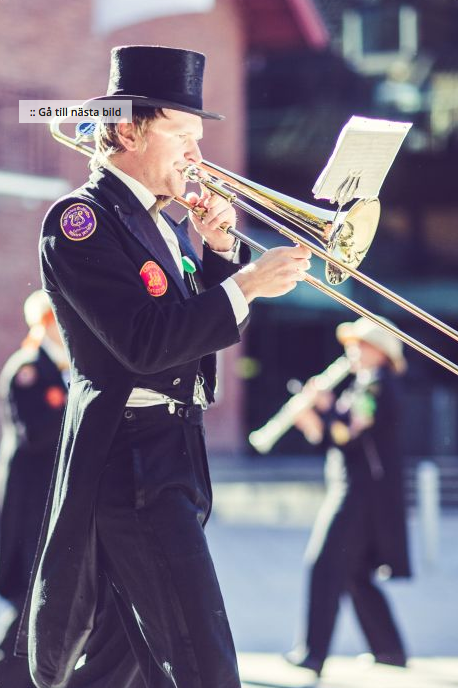
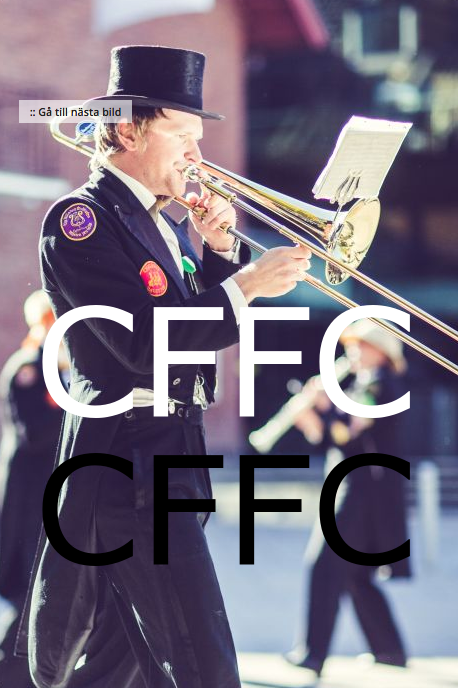
Add watermark and booking page.

diff --git a/bokning.html b/bokning.html
@@ -39,45 +39,31 @@
   </header>
 
   <main>
-    <article class="description">
-      <section>
-        <img src="images/11.png" ></a>
-        <p>AllianceOrchestret eller "the Alliance Orchestra of Gothenburg", är
-        världens antagligen mest förvirrade orkester. Alliancen bildades redan 1948
-        och består än idag av glada teknologer från Chalmers tekniska högskola.
-        Tillsammans spelar, sjåvar och vimmlar de runt på krogar, gator och torg. Där
-        du minsta anar det dycker vi upp och sprider glädje och hård marchsmusik.</p>
-      </section>
-
-      <section>
-        <img src="images/19.png" ></a>
-        <p>Ofta uppträder vi tillsammans och sjåvar vi tillsammans med
-        Chalmersbaletten och skapar på så sätt en total upplevelse. Vi kan spela
-        närsomhelst och varsomhelst. Alliancen har spelat på invigningar, bröllop,
-        sittningar, i corteger och på festivaler. Tveka inte att höra av dig till och
-        om du vill höja stämmningen på din fest eller event.</p>
-      </section>
-
-      <img src="images/4.png" ></a>
+    <h2>Boka oss</h2>
+    <article>
+       <p>
+         Alliancen är ett utmärkt sätt att höja stämningen på fester och
+         kalas. Vi är flexibla och kan spela nästan när och var som helst.
+         Mer info om hur en typisk Alliancespelning går till finner du här.
+         Mannen på bilden är vår Disponent (ordförande).
+       </p>
     </article>
 
-    <article class="action">
-      <h3 id="boka-oss">Boka oss</h3>
+    <img src="images/4.png" ></a>
 
-      <p>För att boka oss kontaktar du vår ordförande eller Disponent, Holger
-        &quot;Ässet&quot; Lindström på
-        <a href="mailto:disponent@alliancen.se" class="uri">disponent@alliancen.se</a>
-        eller <a href="tel:0700123456" class="uri">0700123456</a>.
+    <article>
+      <p>
+        All bokning sköts av AllianceOrchestrets Disponent. För närvarande
+        heter han Holger "Ässet" Lindström. Ring honom på
+        <a herf="tel:076-171 91 27" class="uri">076-171 91 27</a>
+        eller skicka ett mejl till
+        <a href="mailto:disponent@alliancen.se" class="uri">
+          disponent@alliancen.se</a>
+        för att boka oss!  Disponenten känns lätt igen emedan han alltid bär
+        hög hatt.
       </p>
     </article>
 
-    <article class="action">
-      <h3 id="sök-orchestret">Sök orchestret</h3>
-
-      <p>Går du på Chalmers och vill spela med oss? Klart du vill! Vi har vår
-      aspning i LP1. Kom på ett av våra rep på måndagar kl19:00 i kårresturangen
-      i LV1-4. Ta chansen, sök Alliancen!</p>
-    </article>
 
     <img src="images/7.png" ></a>
   </main>

diff --git a/css/main.css b/css/main.css
@@ -82,9 +82,20 @@ h1 {
 }
 
 h2 {
-  font-size: 2rem;
+  font-size: 3rem;
   margin-top: 2.2rem;
+  margin-bottom: 1rem;
   /* margin-bottom: -.5rem; */
+  /* margin: 2.2rem auto 1rem auto; */
+  /* margin: 0 auto; */
+  text-align: center;
+  width: 100%;
+}
+
+h3 {
+  font-size: 2.5rem;
+  margin-top: 2.2rem;
+  margin-bottom: 0.5rem;
 }
 
 h2 + p {
@@ -117,19 +128,19 @@ footer {
   background-color: var(--color);
   color: var(--accent);
   /* font-size: 0.8rem; */
-  line-height: 1rem;
+  line-height: 1.5rem;
 }
 
 footer > h1 {
   text-align: center;
-  /* fix for vertical rythm */
-  margin-bottom: -1.1rem;
+  /* fix for vertical rythm but it's broken now */
+  /* margin-bottom: -1.1rem; */
 }
 
-footer > h2, h3 {
+footer > h3, footer h4 {
   font-family: "Fira sans";
   font-weight: 600;
-  /* margin-bottom: -1.4rem; */
+  margin-bottom: -1.4rem;
 }
 
 footer p {
@@ -159,7 +170,7 @@ img {
   display: block;
 }
 
-header > h1 {
+header h1 {
   display: none;
 }
 
@@ -169,7 +180,7 @@ header {
 
 /* ********** Media ********** */
 
-/* Är det här nädvändigt? */
+/* Ã„r det hÃ¤r nÃ¤dvÃ¤ndigt? */
 @media (max-width: 359px) {
   h1 {
     font-size: 2.5rem;
@@ -193,7 +204,6 @@ header {
     width: initial;
     flex-grow:;
     /* border-bottom: black solid 9px; */
-    line-height: 1.5rem;
   }
 
   footer p {
@@ -232,6 +242,8 @@ header {
     margin-right: 0;
     margin-top: .25rem;
   }
+
+
 }
 
 
@@ -335,7 +347,8 @@ header {
 
   img {
     max-width: 65ch;
-    height: initial;
+    height: auto;
+    width: auto;
     margin: 0 auto;
   }
 
@@ -359,7 +372,8 @@ header {
 
   main > img {
     margin: 2rem 0 1.5rem 0;
-    flex: 0 0;
+    flex: 0 0 auto;
+    align-self: center;
   }
 
   .description p:first-letter {

diff --git a/historia.html b/historia.html
@@ -23,9 +23,12 @@
 "></div>
 
   <header>
-  <h1 id="allianceorchestret">AllianceOrchestret</h1>
 
-  <img class="logo" src="images/logga.png" ></a>
+  <a href="/">
+    <h1 id="allianceorchestret">AllianceOrchestret</h1>
+    <img class="logo" src="images/logga.png" ></a>
+  </a>
+
   <img src="images/21.png" ></a>
 
     <nav>
@@ -100,11 +103,11 @@
   <footer>
     <h1>AllianceOrchestret</h1>
 
-    <h2 id="kontakt">Kontakt</h2>
+    <h3 id="kontakt">Kontakt</h3>
 
     <div>
       <div>
-        <h3 id="bokning-eller-frågor">Bokning eller frågor:</h3>
+        <h4 id="bokning-eller-frågor">Bokning eller frågor:</h4>
         <p>
           Disponent Holger &quot;Ässet&quot; Lindström<br>
           <a href="tel:0700123456" class="uri">0700123456</a><br>
@@ -115,7 +118,7 @@
       </div>
       
       <div>
-        <h3>Postadress</h3>
+        <h4>Postadress</h4>
         <p class="adress">
           AllianceOrchestret<br>
           Emil Oförvägen 1A<br>
@@ -124,7 +127,7 @@
       </div>
       
       <div>
-        <h3 id="hemsida">Hemsida</h3>
+        <h4 id="hemsida">Hemsida</h4>
         <p>
           Oansvarig utgivare: Bernad<br>
           Klagomål sickast till
@@ -133,7 +136,6 @@
       </div>
     </div>
   </footer>
-
 
 </body>
 </html>

diff --git a/styret.html b/styret.html
@@ -23,9 +23,11 @@
 "></div>
 
   <header>
-  <h1 id="allianceorchestret">AllianceOrchestret</h1>
 
-  <img class="logo" src="images/logga.png" ></a>
+  <a href="/">
+    <h1 id="allianceorchestret">AllianceOrchestret</h1>
+    <img class="logo" src="images/logga.png" ></a>
+  </a>
   <img src="images/21.png" ></a>
 
     <nav>
@@ -79,11 +81,11 @@
   <footer>
     <h1>AllianceOrchestret</h1>
 
-    <h2 id="kontakt">Kontakt</h2>
+    <h3 id="kontakt">Kontakt</h3>
 
     <div>
       <div>
-        <h3 id="bokning-eller-frågor">Bokning eller frågor:</h3>
+        <h4 id="bokning-eller-frågor">Bokning eller frågor:</h4>
         <p>
           Disponent Holger &quot;Ässet&quot; Lindström<br>
           <a href="tel:0700123456" class="uri">0700123456</a><br>
@@ -94,7 +96,7 @@
       </div>
       
       <div>
-        <h3>Postadress</h3>
+        <h4>Postadress</h4>
         <p class="adress">
           AllianceOrchestret<br>
           Emil Oförvägen 1A<br>
@@ -103,7 +105,7 @@
       </div>
       
       <div>
-        <h3 id="hemsida">Hemsida</h3>
+        <h4 id="hemsida">Hemsida</h4>
         <p>
           Oansvarig utgivare: Bernad<br>
           Klagomål sickast till
